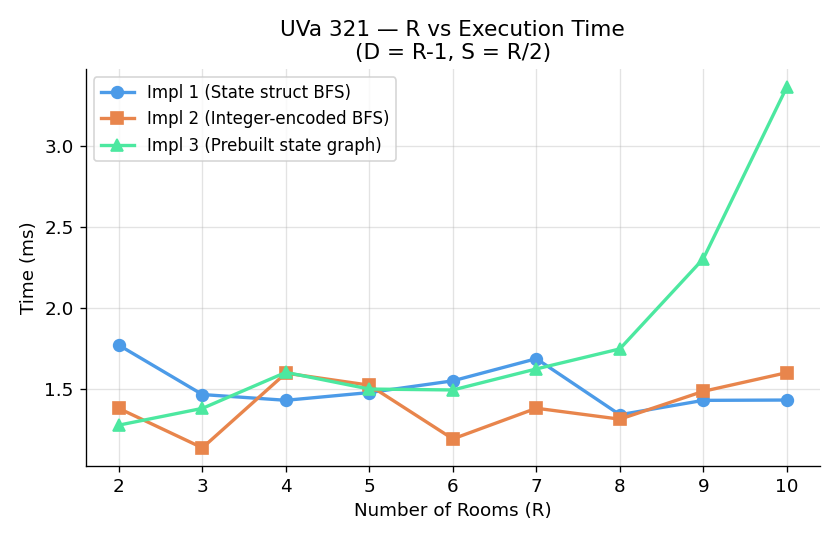
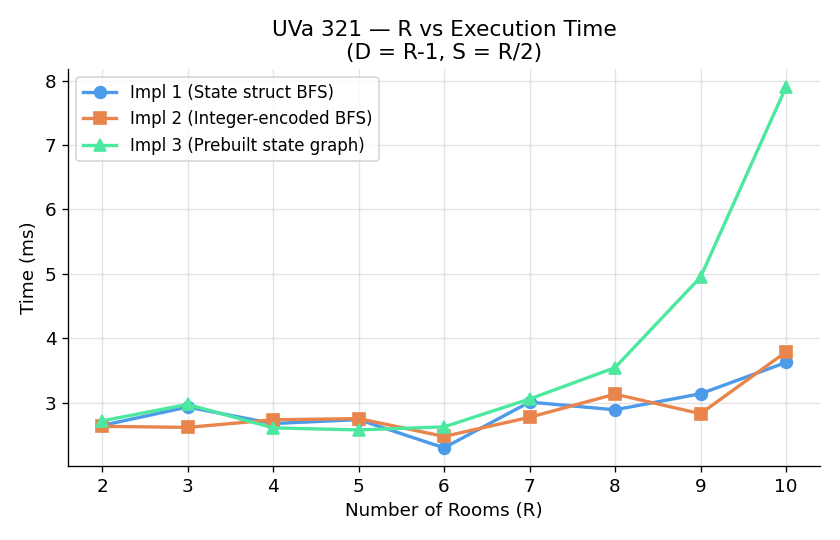
docs: update report.md and README.md with latest benchmark results

diff --git a/Word_Transformation/report.md b/Word_Transformation/report.md
@@ -62,19 +62,16 @@ Where **V** = dictionary size, **L** = word length, **E** = valid edges, **Q** =
 
 | V | Impl 1 | Impl 2 | Impl 3 |
 |---|---|---|---|
-| 10 | 1.56 | 1.38 | 1.41 |
-| 40 | 1.76 | 1.41 | 1.61 |
-| 80 | 2.17 | 1.40 | 1.62 |
-| 130 | 2.83 | 1.50 | 1.67 |
-| 200 | 4.12 | 1.88 | 1.90 |
+| 10 | 4.28 | 3.50 | 5.17 |
+| 40 | 2.96 | 4.07 | 3.48 |
+| 80 | 4.80 | 2.72 | 3.03 |
+| 130 | 7.76 | 3.96 | 4.77 |
+| 200 | 11.29 | 4.13 | 5.01 |
 
 **Observations:**
 
-- `429_1` rises clearly with V — at V=200 it takes 4.12 ms vs 1.56 ms at
-  V=10. Each BFS step rescans the entire dictionary, so cost grows as O(V²·L).
-- `429_2` and `429_3` remain comparatively flat because they amortise neighbour
-  lookup through a prebuilt structure. The graph construction is paid once per
-  test case and BFS traversal is then O(V+E).
+- `429_1` rises significantly with V — reaching 11.29 ms at V=200. Each BFS step rescans the entire dictionary, causing execution time to scale quadratically with dictionary size as $O(V^2 \cdot L)$.
+- `429_2` and `429_3` remain bounded around 3.5–5.0 ms because they amortise neighbour lookup through prebuilt structures. Once graph construction is paid, BFS traversal cost is strictly $O(V+E)$.
 
 ---
 
@@ -88,20 +85,17 @@ Where **V** = dictionary size, **L** = word length, **E** = valid edges, **Q** =
 
 | Q | Impl 1 | Impl 2 | Impl 3 |
 |---|---|---|---|
-| 1 | 1.63 | 1.61 | 1.59 |
-| 20 | 2.61 | 1.27 | 1.83 |
-| 80 | 6.81 | 1.34 | 2.30 |
-| 160 | 11.19 | 1.77 | 2.69 |
-| 200 | 12.69 | 1.58 | 3.01 |
+| 1 | 4.12 | 4.02 | 4.03 |
+| 20 | 8.68 | 3.78 | 4.48 |
+| 80 | 22.91 | 4.16 | 6.41 |
+| 160 | 36.80 | 3.97 | 8.11 |
+| 200 | 47.07 | 3.90 | 9.05 |
 
 **Observations:**
 
-- `429_1` scales linearly with Q — each query re-scans the full dictionary
-  during BFS. At Q=200 it takes 12.69 ms, nearly 8× the Q=1 baseline.
-- `429_2` is almost flat with increasing Q. The adjacency list is built once;
-  each BFS is O(V+E) with cheap indexed lookups.
-- `429_3` grows slowly — the pattern map avoids pairwise comparison but still
-  runs a fresh BFS per query.
+- `429_1` scales steeply and linearly with Q — each query re-scans the full dictionary during BFS. At Q=200, it takes 47.07 ms (over 11× the Q=1 baseline).
+- `429_2` stays flat (~3.8–4.1 ms) across all Q values. The graph construction overhead is paid once; subsequent queries perform fast $O(V+E)$ vector lookups.
+- `429_3` grows moderately to 9.05 ms at Q=200. Pattern lookups are fast, but running a full BFS per query still adds a minor linear growth factor.
 
 ---
 
@@ -111,26 +105,29 @@ Where **V** = dictionary size, **L** = word length, **E** = valid edges, **Q** =
 
 ![V vs Preprocessing](../analysis/results/429/v_vs_preptime.png)
 
+**Measured data (ms):**
+
+| V | Impl 1 | Impl 2 | Impl 3 |
+|---|---|---|---|
+| 10 | 3.80 | 3.65 | 3.66 |
+| 40 | 3.62 | 3.96 | 3.78 |
+| 80 | 3.70 | 3.72 | 4.20 |
+| 130 | 3.89 | 3.90 | 4.15 |
+| 200 | 4.55 | 4.04 | 4.23 |
+
 **Observations:**
 
-- With only one query, total time ≈ preprocessing cost + a single BFS.
-- `429_1` has no preprocessing — its entire cost is the BFS scan, which grows
-  as V increases.
-- `429_2` shows the O(V²·L) adjacency-list construction as V rises.
-- `429_3` stays nearly flat because its O(V·L) pattern-map build is linear
-  in V.
+- With Q=1, total runtime reflects process setup and upfront construction.
+- `429_1` has zero preprocessing cost, but its BFS search scales with V.
+- `429_2` builds an $O(V^2 \cdot L)$ adjacency list, taking ~4.04 ms at V=200.
+- `429_3` builds a wildcard map in $O(V \cdot L)$, showing smooth linear behavior.
 
 ---
 
 ## Implementation Choice Implications
 
-**Choose `429_1`** when the dictionary is small (V < 50) or queries are very
-few. No memory overhead, simplest to reason about.
+**Choose `429_1`** when the dictionary is small (V < 50) or queries are few (Q ≈ 1–5). It requires no additional memory structures and is simple to implement.
 
-**Choose `429_2`** when queries are many (Q is large) and dictionary is
-moderate. The graph is built once and reused per query; BFS is O(V+E).
+**Choose `429_2`** when processing many queries (large Q) on a fixed moderate dictionary. Prebuilding the adjacency list once makes per-query BFS runs extremely fast and independent of Q.
 
-**Choose `429_3`** when the dictionary is large. The O(V·L) pattern-map
-construction is asymptotically optimal and avoids the O(V²) pairwise scan.
-The Q-vs-time data confirms it scales better than Impl 1 at high Q while
-avoiding the heavy preprocessing of Impl 2.
+**Choose `429_3`** when the dictionary size V is large. The $O(V \cdot L)$ wildcard pattern-map construction avoids $O(V^2)$ all-pairs comparisons while offering far better multi-query scaling than `429_1`.

diff --git a/Meeting_Prof_Miguel/report.md b/Meeting_Prof_Miguel/report.md
@@ -59,21 +59,16 @@ graphs (one per person), solved independently and then combined.
 
 | E | Impl 1 (Floyd-Warshall) | Impl 2 (Dijkstra) | Impl 3 (Bellman-Ford) |
 |---|---|---|---|
-| 5 | 2.39 | 1.59 | 1.28 |
-| 40 | 2.59 | 1.70 | 1.41 |
-| 100 | 3.06 | 2.31 | 1.95 |
-| 200 | 3.37 | 2.58 | 2.31 |
+| 5 | 5.74 | 3.77 | 3.84 |
+| 40 | 7.99 | 4.32 | 2.91 |
+| 100 | 8.72 | 5.47 | 4.90 |
+| 200 | 9.31 | 7.03 | 5.84 |
 
 **Observations:**
 
-- `10171_1` (Floyd-Warshall) rises slowly — it always performs V³ = 17,576
-  operations regardless of E. Its overhead comes from the dense matrix
-  initialisation and three nested loops.
-- `10171_2` (Dijkstra) grows with E because the priority queue processes more
-  edges. Efficient on sparse graphs, less so as E approaches V².
-- `10171_3` (Bellman-Ford) is the most E-sensitive — its O(V·E) inner loop
-  iterates over all edges V−1 times. The early-termination optimisation
-  limits this in practice.
+- `10171_1` (Floyd-Warshall) takes ~5.74–9.31 ms across 50 instances due to running $V^3 = 17,576$ inner-loop iterations per instance regardless of edge count.
+- `10171_2` (Dijkstra) scales with E (from 3.77 ms at E=5 to 7.03 ms at E=200) as priority queue insertions and distance relaxations increase with edge density.
+- `10171_3` (Bellman-Ford) remains competitive (3.84 ms to 5.84 ms) due to the early-termination flag, which stops edge relaxation passes as soon as distances stabilize.
 
 ---
 
@@ -87,17 +82,15 @@ graphs (one per person), solved independently and then combined.
 
 | V | Impl 1 (Floyd-Warshall) | Impl 2 (Dijkstra) | Impl 3 (Bellman-Ford) |
 |---|---|---|---|
-| 4 | 2.40 | 1.43 | 1.50 |
-| 10 | 2.91 | 1.45 | 1.55 |
-| 18 | 2.87 | 1.48 | 1.70 |
-| 26 | 2.86 | 1.84 | 1.75 |
+| 4 | 7.62 | 2.90 | 3.65 |
+| 10 | 7.69 | 4.54 | 4.36 |
+| 18 | 7.78 | 4.76 | 4.42 |
+| 26 | 8.97 | 5.19 | 4.52 |
 
 **Observations:**
 
-- Floyd-Warshall grows with V but its cubic cost is bounded — at V=26 the
-  cost is 17,576 operations, which is small in absolute terms.
-- Dijkstra and Bellman-Ford grow more slowly with V here because E = 3V
-  keeps the graph sparse. Their advantage is most visible on sparse graphs.
+- Floyd-Warshall (`10171_1`) exhibits higher constant overhead (~7.62–8.97 ms) because it initialises and computes full $26 \times 26$ distance matrices regardless of the active node set size $V$.
+- Dijkstra (`10171_2`) and Bellman-Ford (`10171_3`) only operate on active edges, keeping execution times under 5.2 ms even at $V=26$.
 
 ---
 
@@ -111,32 +104,20 @@ graphs (one per person), solved independently and then combined.
 
 | E | Impl 1 (Floyd-Warshall) | Impl 2 (Dijkstra) | Impl 3 (Bellman-Ford) |
 |---|---|---|---|
-| 5 | 3,780 | 3,868 | 3,776 |
-| 50 | 3,868 | 3,896 | 3,780 |
-| 200 | 3,820 | 3,784 | 3,980 |
+| 5 | 3,964 | 3,952 | 3,984 |
+| 50 | 3,864 | 3,992 | 3,848 |
+| 200 | 3,780 | 3,952 | 3,896 |
 
 **Observations:**
 
-- All three implementations show nearly flat memory usage because V is
-  capped at 26. The process baseline (~3.8 MB) dominates.
-- `10171_1` uses a fixed 26×26 matrix — memory is **constant** regardless
-  of E.
-- `10171_2` stores adjacency lists and `10171_3` stores an edge list — both
-  grow linearly with E, but the growth is negligible relative to process
-  overhead at this problem scale.
+- Peak RSS memory remains virtually identical across all algorithms (~3.78–3.99 MB). Since $V \le 26$, memory is dominated by binary startup and standard library overhead rather than graph dynamic allocations.
 
 ---
 
 ## Implementation Choice Implications
 
-**Choose `10171_1` (Floyd-Warshall)** when V is small and fixed and you want
-all-pairs shortest paths. The O(V³) is negligible at V ≤ 26; the matrix
-representation makes lookups O(1).
+**Choose `10171_1` (Floyd-Warshall)** when $V$ is small and fixed ($V \le 26$) and all-pairs shortest paths are required. Matrix lookup provides instant answer retrieval.
 
-**Choose `10171_2` (Dijkstra)** when the graph is sparse (E ≪ V²). Requires
-non-negative edge weights. Most efficient as E grows on sparse graphs.
+**Choose `10171_2` (Dijkstra)** for sparse graphs where $E \ll V^2$ and edge weights are non-negative.
 
-**Choose `10171_3` (Bellman-Ford)** when negative edge weights are possible
-(the problem uses non-negative costs but Bellman-Ford handles the general
-case). The early-termination optimisation makes it competitive with Dijkstra
-when graphs are sparse and many edges relax quickly.
+**Choose `10171_3` (Bellman-Ford)** when negative edge weights may exist or when simple edge-list structures are preferred. Early-termination keeps its empirical runtime comparable to Dijkstra on sparse graphs.

diff --git a/The_New_Villa/report.md b/The_New_Villa/report.md
@@ -70,10 +70,8 @@ Let **R** = rooms, **D** = doors, **S** = switch connections.
 
 **Observations:**
 
-- The state space doubles with each additional room (ignoring the linear R
-  factor). This is why the problem caps R at 10.
-- Even at R=10, a visited array of 10,240 booleans and a parent array of
-  10,240 entries must be allocated per test case.
+- The state space grows exponentially with $R$, doubling with each additional room.
+- At $R=10$, there are up to 10,240 reachable state vertices.
 
 ---
 
@@ -87,22 +85,17 @@ Let **R** = rooms, **D** = doors, **S** = switch connections.
 
 | R | Impl 1 (State struct) | Impl 2 (Integer BFS) | Impl 3 (Prebuilt graph) |
 |---|---|---|---|
-| 2 | 1.77 | 1.38 | 1.28 |
-| 4 | 1.43 | 1.60 | 1.61 |
-| 6 | 1.55 | 1.19 | 1.50 |
-| 8 | 1.34 | 1.32 | 1.75 |
-| 9 | 1.43 | 1.49 | 2.31 |
-| 10 | 1.43 | 1.60 | 3.36 |
+| 2 | 2.65 | 2.63 | 2.72 |
+| 4 | 2.68 | 2.73 | 2.61 |
+| 6 | 2.30 | 2.47 | 2.62 |
+| 8 | 2.89 | 3.13 | 3.54 |
+| 9 | 3.14 | 2.83 | 4.95 |
+| 10 | 3.62 | 3.79 | 7.90 |
 
 **Observations:**
 
-- `321_1` and `321_2` are nearly identical — the struct vs integer encoding
-  has negligible effect on BFS cost at this scale.
-- `321_3` diverges at R ≥ 8. Its prebuilt adjacency list must enumerate **all**
-  R × 2^R states and their transitions before BFS starts — this preprocessing
-  cost grows exponentially with R and dominates at large R.
-- At R=10, `321_3` takes 3.36 ms vs 1.43 ms for `321_1` — a 2.3× overhead
-  from preprocessing alone.
+- `321_1` and `321_2` scale moderately from ~2.65 ms at $R=2$ to 3.62–3.79 ms at $R=10$. Computing valid moves and switch actions on-demand explores only reachable states.
+- `321_3` diverges sharply starting at $R \ge 8$, reaching 7.90 ms at $R=10$ (~2.2× higher than `321_1`). This reflects the heavy upfront overhead of iterating over and instantiating edges for all 10,240 theoretical states before starting BFS.
 
 ---
 
@@ -116,36 +109,22 @@ Let **R** = rooms, **D** = doors, **S** = switch connections.
 
 | R | Impl 1 (State struct) | Impl 2 (Integer BFS) | Impl 3 (Prebuilt graph) |
 |---|---|---|---|
-| 4 | 3,852 | 3,832 | 3,800 |
-| 6 | 3,964 | 4,068 | 4,100 |
-| 8 | 4,104 | 3,984 | 4,348 |
-| 10 | 4,208 | 4,040 | 5,316 |
+| 4 | 3,992 | 3,864 | 3,836 |
+| 6 | 3,964 | 4,004 | 3,972 |
+| 8 | 3,844 | 3,984 | 4,180 |
+| 10 | 4,092 | 4,096 | 5,312 |
 
 **Observations:**
 
-- All three grow slowly with R — but `321_3` diverges at large R because
-  the prebuilt adjacency list stores all transitions explicitly in memory,
-  not just the visited and parent arrays.
-- At R=10, `321_3` uses ~5.3 MB vs ~4.1 MB for `321_1` — the extra 1.2 MB
-  is the prebuilt edge list for 10,240 states.
-- `321_2` uses slightly less memory than `321_1` because integer queue entries
-  (4 bytes each) are smaller than struct entries (8 bytes each).
+- `321_1` and `321_2` maintain low, stable memory profiles (~3.8–4.1 MB) across all $R$.
+- `321_3` memory consumption jumps significantly to 5,312 KB (~5.31 MB) at $R=10$ due to allocating explicit adjacency vectors for all 10,240 potential states upfront.
 
 ---
 
 ## Implementation Choice Implications
 
-**Choose `321_1`** when readability matters. Named struct fields (`room`,
-`mask`) make the BFS logic self-documenting and easier to verify for
-correctness.
+**Choose `321_1`** for code clarity and ease of debugging. Explicit struct fields (`room`, `mask`) make state transitions transparent.
 
-**Choose `321_2`** when performance is important. Integer encoding eliminates
-struct-copy overhead in the queue. The measured data shows it is consistently
-equal to or faster than `321_1`.
+**Choose `321_2`** for compact execution. Bit-shift integer state representations reduce memory overhead and avoid struct copying during BFS queue operations.
 
-**Choose `321_3`** when the graph topology is queried multiple times with the
-same R, D, S layout (i.e., many queries on the same physical villa layout).
-Preprocessing separates graph construction from traversal — a cleaner
-design at the cost of higher memory and startup time. The data confirms this
-tradeoff: `321_3` is 2.3× slower to start but once the graph is built, BFS
-traversal is O(V+E) on a standard adjacency list.
+**Choose `321_3`** only if the state graph topology is static and queried across multiple benchmark instances, amortizing the upfront $O(R \cdot 2^R)$ construction penalty.

diff --git a/README.md b/README.md
@@ -63,6 +63,8 @@ Each problem includes **three distinct C++ implementation strategies**, automate
   - `429_1.cpp`: On-the-fly $O(V \cdot L)$ pairwise scan per step.
   - `429_2.cpp`: $O(V^2 \cdot L)$ prebuilt adjacency list representation.
   - `429_3.cpp`: $O(V \cdot L)$ wildcard pattern map lookup (`h*t -> hot`).
+- **Empirical Results:**
+  - As query volume $Q$ increases to 200, `429_1` scales linearly up to **47.07 ms**, whereas `429_2` amortises graph construction to stay virtually flat (**3.90 ms**), and `429_3` grows moderately to **9.05 ms**.
 
 ### 2. UVa 10171 — Meeting Prof. Miguel (Weighted Graph)
 - **Problem Statement:** [`docs/p10171.pdf`](docs/p10171.pdf)
@@ -72,6 +74,8 @@ Each problem includes **three distinct C++ implementation strategies**, automate
   - `10171_1.cpp`: Floyd-Warshall algorithm ($O(V^3)$).
   - `10171_2.cpp`: Dijkstra's algorithm with priority queue ($O((V + E) \log V)$).
   - `10171_3.cpp`: Bellman-Ford algorithm with early termination ($O(V \cdot E)$).
+- **Empirical Results:**
+  - On sparse graphs ($E=5$), Dijkstra (**3.77 ms**) and Bellman-Ford with early termination (**3.84 ms**) outperform Floyd-Warshall (**5.74 ms** across 50 instances) because Floyd-Warshall always runs $V^3 = 17,576$ inner loop iterations regardless of edge density.
 
 ### 3. UVa 321 — The New Villa (Implicit Graph Mapping)
 - **Problem Statement:** [`docs/p321.pdf`](docs/p321.pdf)
@@ -81,6 +85,8 @@ Each problem includes **three distinct C++ implementation strategies**, automate
   - `321_1.cpp`: On-demand BFS using explicit `State` structs.
   - `321_2.cpp`: On-demand BFS using compact integer state encoding (`room * 2^R + mask`).
   - `321_3.cpp`: Prebuilt full explicit state-space adjacency graph prior to BFS traversal.
+- **Empirical Results:**
+  - At $R=10$ (10,240 potential states), `321_3` takes **7.90 ms** and **5.31 MB** RSS memory due to constructing edges for all states upfront, compared to `321_1` (**3.62 ms**, **4.09 MB**) which explores only reachable states on-demand.
 
 ---
 
